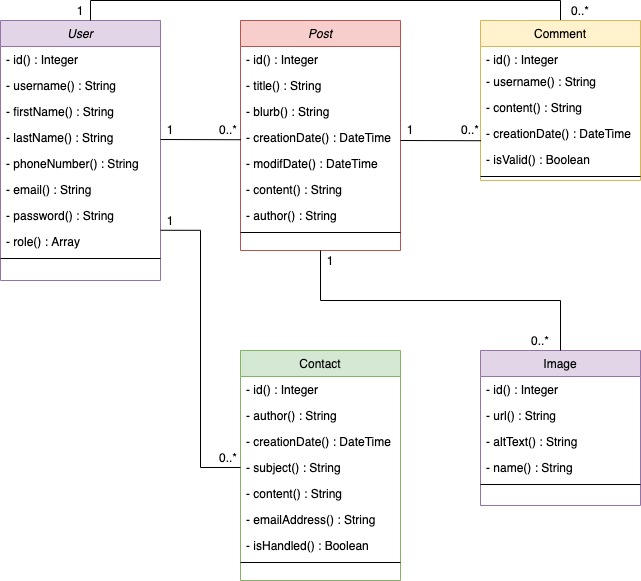
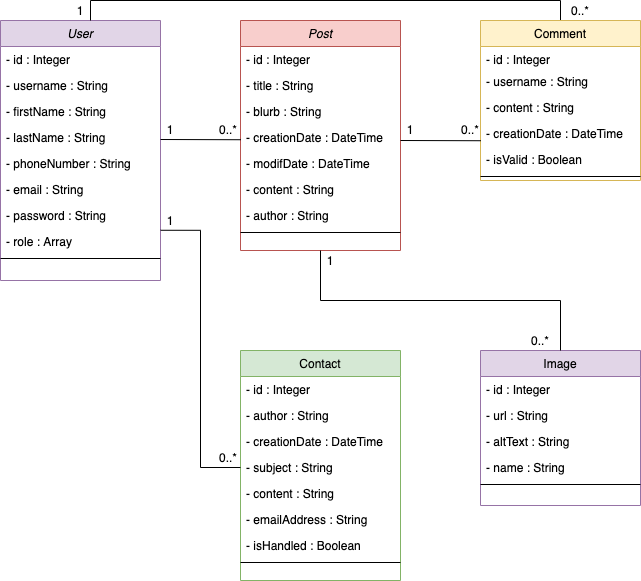
Deleting parenthesis for my class diagram + sending mail when a contact is sent from the blog + deleting comments when a post is deleted

diff --git a/src/Repository/ContactManager.php b/src/Repository/ContactManager.php
@@ -11,20 +11,22 @@ use PDO;
 class ContactManager extends BaseController
 {
     protected ?string $table;
+    protected ?string $secondTable;
     protected $object;
     protected string $entity;
     protected string $contact;
     protected $bdd;
     
-    public function __construct($table, $object)
+    public function __construct($table, $object, $secondTable = NULL)
     {
         $this->table = $table;
         $this->object = $object;
+        $this->secondTable = $secondTable;
         $this->bdd = Database::getInstance();
     }
 
     /**
-     * Adds contact messages written from the blog into the database
+     * Adds contact messages written from the blog into the database and sends a mail to the admin
      * 
      * @param Contact $contact
      * 
@@ -32,6 +34,18 @@ class ContactManager extends BaseController
      */
     public function sendContact(Contact $contact): void
     {
+        $mailer = new Mailer();
+
+        $sql = "SELECT email FROM " . $this->secondTable . " WHERE role = 1 LIMIT 1";
+        $query = $this->bdd->preparation($sql);
+        $query->execute();
+        $admin = $query->fetch();
+
+        $subject = "Contact";
+        $body = "<p>Bonjour,</p>Vous avez reçu le message suivant de : " . $contact->getAuthor() . "</p><p><strong>Adresse email</strong> : " . $contact->getEmailAddress() . "</p><p><strong>Sujet</strong> : " . $contact->getSubject() . "</p><p><strong>Contenu</strong> : " . $contact->getContent() . "</p><p>Connectez-vous sur l'interface d'administration pour y répondre,</p><p>Le blog de Marc Lassort</p>";
+
+        $mailer->sendEmail($admin[0], $subject, $body);
+
         $sql = "INSERT INTO " . $this->table . " (author, creation_date, subject, content, email_address, is_handled, user_id) VALUES (?, NOW(), ?, ?, ?, 0, 22)";
         $query = $this->bdd->preparation($sql);
         $query->execute([

diff --git a/src/Repository/PostManager.php b/src/Repository/PostManager.php
@@ -9,15 +9,17 @@ use PDO;
 class PostManager
 {
     protected $table;
+    protected $secondTable;
     protected $object;
     protected $post;
     protected $bdd;
     public const SELECTQUERY = 'SELECT * FROM ';
 
-    public function __construct($table, $object)
+    public function __construct($table, $object, $secondTable = NULL)
     {
         $this->table = $table;
         $this->object = $object;
+        $this->secondTable = $secondTable;
         $this->bdd = Database::getInstance();
     }
 
@@ -121,6 +123,11 @@ class PostManager
      */
     public function deletePost($postId): void
     {
+        $sql = 'DELETE FROM ' . $this->secondTable . ' WHERE post_id = :id';
+        $query = $this->bdd->preparation($sql);
+        $query->bindValue(':id', $postId);
+        $query->execute();
+
         $sql = 'DELETE FROM ' . $this->table . ' WHERE id = :id';
         $query = $this->bdd->preparation($sql);
         $query->bindValue(':id', $postId);

diff --git a/src/Controller/AdminController.php b/src/Controller/AdminController.php
@@ -133,7 +133,7 @@ class AdminController extends BaseController
     {
         if ($_SESSION['token'] == $_POST['token']) 
         {
-            $postManager = new PostManager('post', 'Post');
+            $postManager = new PostManager('post', 'Post', 'comment');
             $postManager->deletePost($_POST['idPost']);
     
             $this->redirect('liste-articles');

diff --git a/src/Controller/ContactController.php b/src/Controller/ContactController.php
@@ -13,7 +13,7 @@ class ContactController extends BaseController
 
     public function contact() 
     {
-        $contactManager = new ContactManager('contact', 'Contact');
+        $contactManager = new ContactManager('contact', 'Contact', 'user');
         $contact = new Contact($_POST);
 
         if ($this->isSubmitted('contactInput') && $this->isValid($contact))

diff --git a/src/Repository/CommentManager.php b/src/Repository/CommentManager.php
@@ -3,7 +3,6 @@
 namespace App\Repository;
 
 use App\Entity\Comment;
-use App\Entity\Post;
 use App\Entity\User;
 use Core\Database;
 use PDO;
